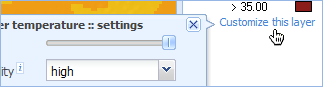
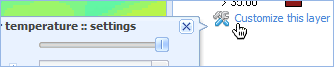
new customize stuff

diff --git a/info/help.html b/info/help.html
@@ -8,10 +8,10 @@
 
   <tr><td style='padding-bottom:0'><font color='#15428B'><b>MODELS</b></font> and <font color='#15428B'><b>OBSERVATIONS</b></font></td></tr>
   <tr>
-    <td><img style='margin-left:10px' align='right' width=323 height=87 src='info/customize.png'>Many of these layers allow you to customize their appearance.  Click on the link below a legend to view your options.</td>
+    <td><img style='margin-left:10px' align='right' width=334 height=67 src='info/customize.png'>Many of these layers allow you to customize their appearance.  Click on the link below a legend to view your options.</td>
   </tr>
   <tr>
-    <td><img style='margin-left:10px' align='right' src='info/query_graph.png' width=320 height=68>You can click anywhere on the map to create a graph of a time-series extraction at your point of interest.  Only one layer may be queried at a time, but you can adjust this by selecting a value from the Active model query layer list at any time.</td>
+    <td><img style='margin-left:10px' align='right' src='info/query_graph.png' width=321 height=113>You can click anywhere on the map to create a graph of a time-series extraction at your point of interest.  Only one layer may be queried at a time, but you can adjust this by selecting a value from the Active model query layer list at any time.</td>
   </tr>
 
   <tr><td style='padding-top:0px'><table style='width:100%'><tr>

diff --git a/map.js.php b/map.js.php
@@ -3124,7 +3124,7 @@ function renderLegend(val,metadata,rec) {
       legendImages[rec.get('name')] = img;
     }
     a.push('<img src="getLegend.php?' + mainStore.getAt(idx).get('legend') + '">');
-    a.push('<a id="settings.' + rec.get('name') + '" title="Customize this layer\'s appearance" href="javascript:setLayerSettings(\'' + rec.get('name') + '\',true)">Customize this layer</a>');
+    a.push('<table><tr><td width=20><a id="settings.' + rec.get('name') + '" title="Customize this layer\'s appearance" href="javascript:setLayerSettings(\'' + rec.get('name') + '\',true)"><img width=16 height=16 src="img/setting_tools.png"></a></td><td><a title="Customize this layer\'s appearance" href="javascript:setLayerSettings(\'' + rec.get('name') + '\',true)">Customize&nbsp;this&nbsp;layer</a></td></tr></table>');
   }
   return a.join('<br/>');
 }
